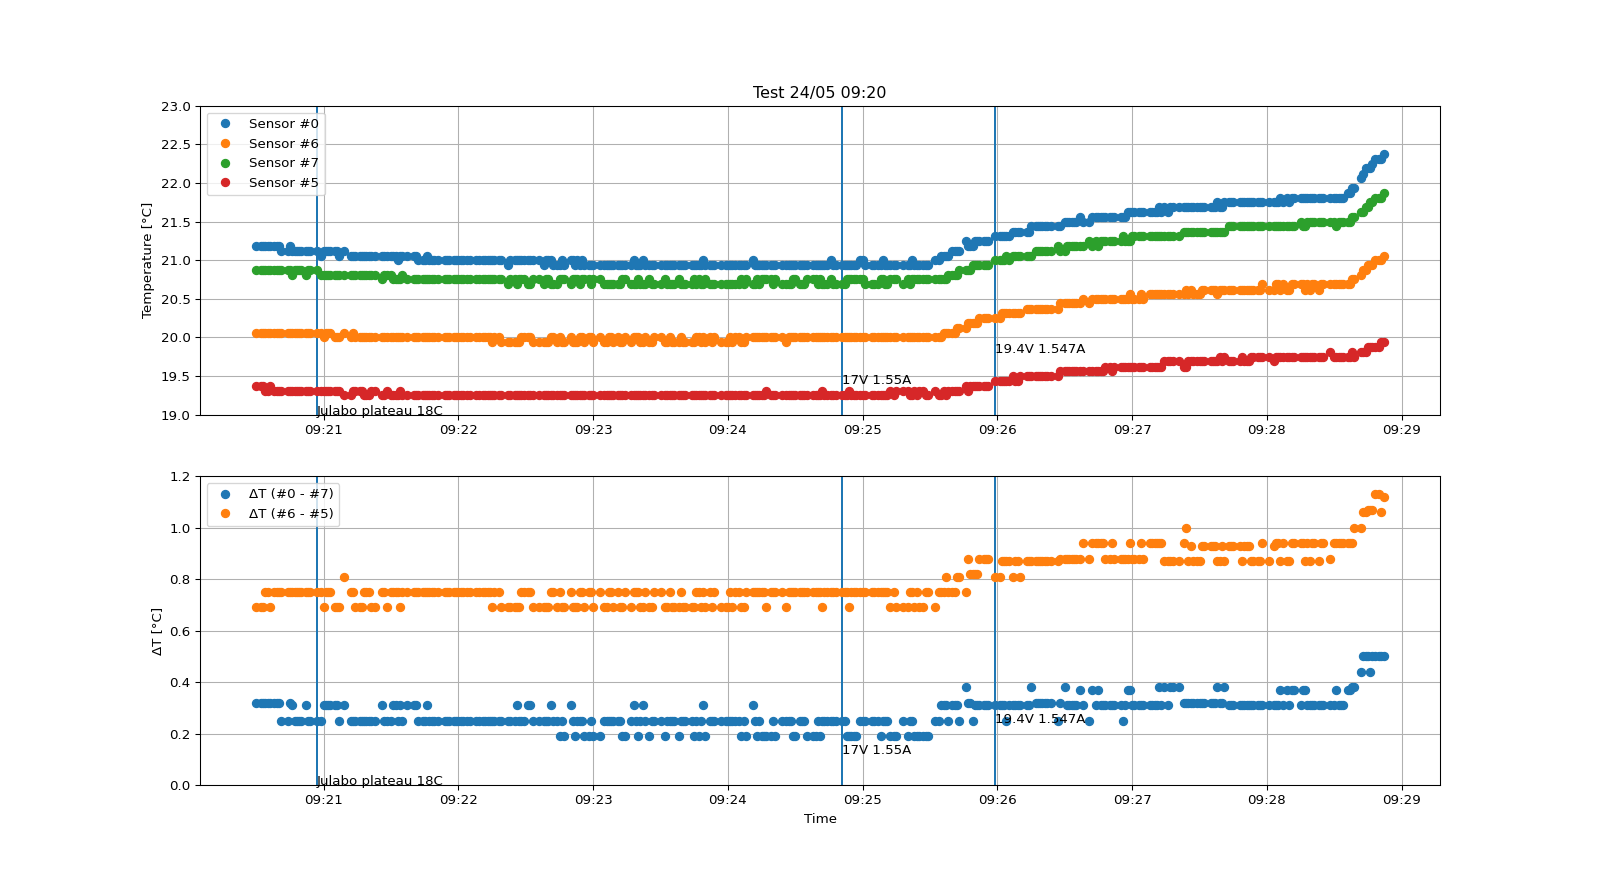
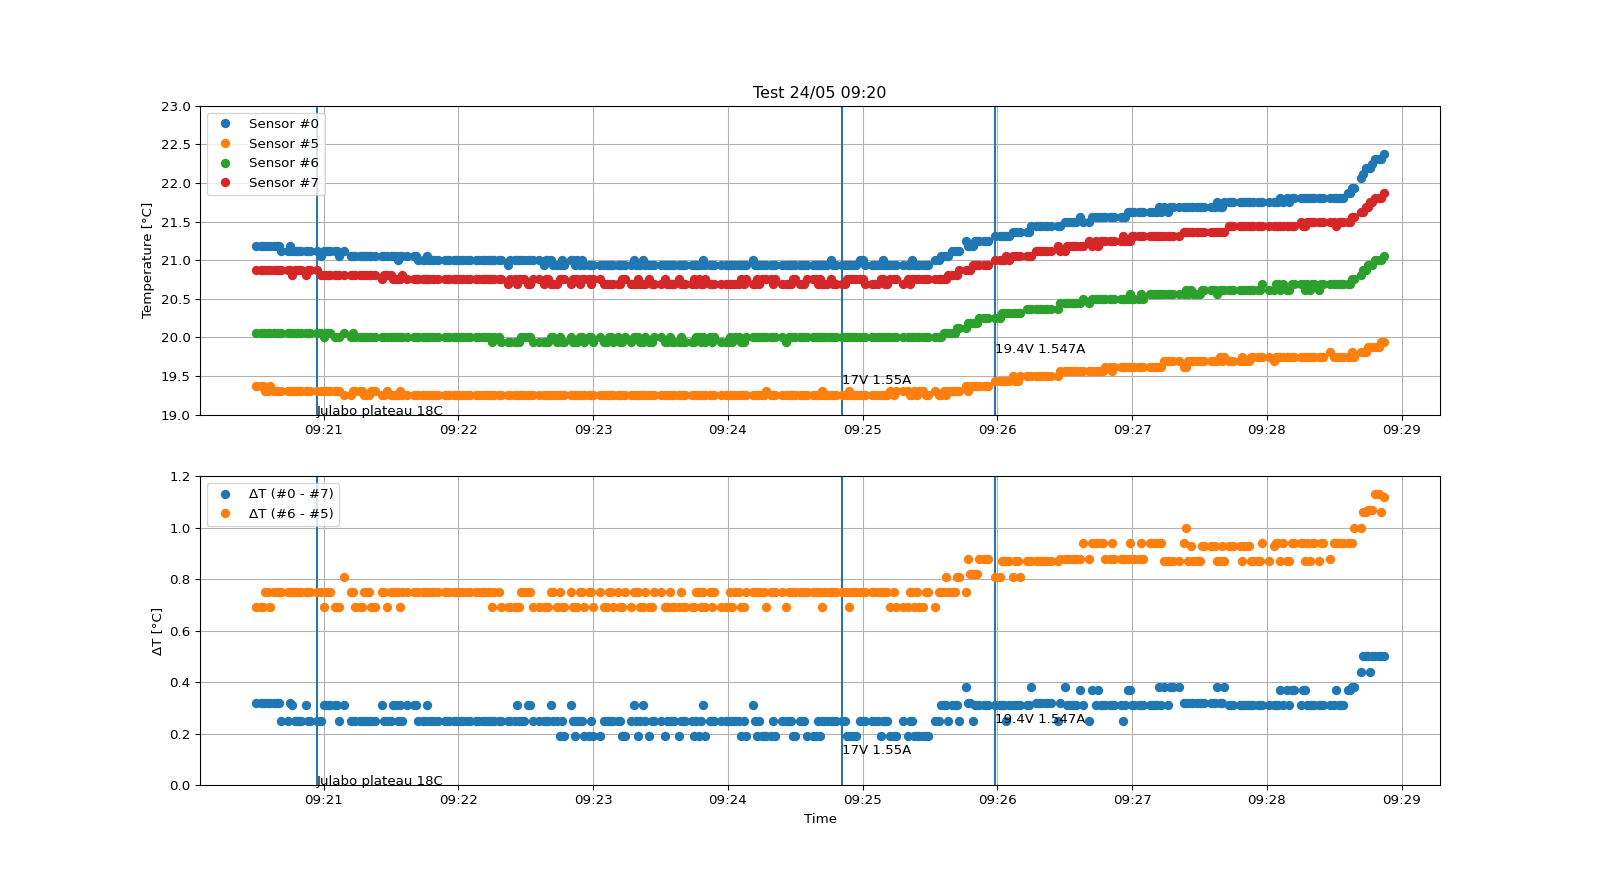
update plots

diff --git a/Analysis/silvio_plots.py b/Analysis/silvio_plots.py
@@ -9,28 +9,168 @@ xformatter = mdates.DateFormatter('%H:%M')
 os.system("mkdir -p plots")
 
 sensor_config = {
-    '../Data/tklog_1619104693.txt': ([(7,3),],"colla blu, sensori avvitati"), #(0,1),(2,4),(5,6) 
-    '../Data/tklog_1619105936.txt': ([(7,3),],"colla blu, sensori avvitati"), #(0,1),(2,4),(5,6)
-    '../Data/tklog_1619106339.txt': ([(7,3),],"colla blu, sensori avvitati"), #(0,1),(2,4),(5,6)
-    '../Data/tklog_1619107077.txt': ([(7,3),(0,1),(2,4),(5,6)],"raffreddamento"), #(0,1),(2,4),(5,6)
-    '../Data/tklog_1619107186.txt': ([(5,2),],"panino secco, sensori avvitati"), #(0,1),(3,4),(6,7)
-    '../Data/tklog_1619107964.txt': ([(5,2),],"panino secco, sensori avvitati"), #(0,1),(3,4),(6,7)
-    '../Data/tklog_1619108587.txt': ([(5,2),],"panino secco, sensori avvitati"), #(0,1),(3,4),(6,7)
-    '../Data/tklog_1619109439.txt': ([(5,2),],"raffreddamento"), #(0,1),(3,4),(6,7)
+#### primi test (Feb 5)
+#    '../Data/tklog_1612542074.txt': ([(0,1),(2,3),(4,5),(6,7),],""),
+#    '../Data/tklog_1612545297.txt': ([(0,1),(2,3),(4,5),(6,7),],""),
 
-#    '../Data/tklog_1621846908.txt': ([(0,7)],""),
-#    '../Data/tklog_1621847007.txt': ([(0,7)],""),
-#    '../Data/tklog_1621848040.txt': ([(0,7)],""),
-#    '../Data/tklog_1621848543.txt': ([(0,7)],""),
-#    '../Data/tklog_1621848738.txt': ([(0,7)],""),
-#    '../Data/tklog_1621849015.txt': ([(0,7)],""),
-#    '../Data/tklog_1621849264.txt': ([(0,7)],""),
-#    '../Data/tklog_1621850280.txt': ([(0,7)],""),
-#    '../Data/tklog_1621850596.txt': ([(0,7)],""),
-#    '../Data/tklog_1621851072.txt': ([(0,7)],""),
-#    '../Data/tklog_1621875533.txt': ([(0,7)],""),
-#    '../Data/tklog_1621932290.txt': ([(0,7)],""),
-#    '../Data/tklog_1621938103.txt': ([(0,7),(1,3)],""),
+#### primi test (Feb 8)
+#    '../Data/tklog_1612777420.txt': ([(0,1),(2,3),(4,5),(6,7),],""),
+#    '../Data/tklog_1612780183.txt': ([(0,1),(2,3),(4,5),(6,7),],""),
+#    '../Data/tklog_1612781179.txt': ([(0,1),(2,3),(4,5),(6,7),],""),
+#    '../Data/tklog_1612782690.txt': ([(0,1),(2,3),(4,5),(6,7),],""),
+#    '../Data/tklog_1612783572.txt': ([(0,1),(2,3),(4,5),(6,7),],""),
+#    '../Data/tklog_1612783710.txt': ([(0,1),(2,3),(4,5),(6,7),],""),
+#    '../Data/tklog_1612784403.txt': ([(0,1),(2,3),(4,5),(6,7),],""),
+
+#### primi test (Feb 9)
+#    '../Data/tklog_1612884983.txt': ([(0,1),(2,3),(4,5),(6,7),],""),
+
+#### primi test (Feb 17)
+#    '../Data/tklog_1613571107.txt': ([(0,1),(2,3),(4,5),(6,7),],""),
+#    '../Data/tklog_1613571198.txt': ([(0,1),(2,3),(4,5),(6,7),],""),
+#    '../Data/tklog_1613573229.txt': ([(0,1),(2,3),(4,5),(6,7),],""),
+
+#### primi test (Feb 18)
+#    '../Data/tklog_1613654915.txt': ([(0,1),(2,3),(4,5),(6,7),],""),
+#    '../Data/tklog_1613655383.txt': ([(0,1),(2,3),(4,5),(6,7),],""),
+#    '../Data/tklog_1613656571.txt': ([(0,1),(2,3),(4,5),(6,7),],""),
+#    '../Data/tklog_1613656843.txt': ([(0,1),(2,3),(4,5),(6,7),],""),
+
+#### primi test (Feb 19)
+#    '../Data/tklog_1613744620.txt': ([(0,1),(2,3),(4,5),(6,7),],""),
+#    '../Data/tklog_1613749472.txt': ([(0,1),(2,3),(4,5),(6,7),],""),
+
+#### primi test (Feb 22)
+#    '../Data/tklog_1614008551.txt': ([(0,1),(2,3),(4,5),(6,7),],""),
+#    '../Data/tklog_1614008861.txt': ([(0,1),(2,3),(4,5),(6,7),],""),
+#    '../Data/tklog_1614009145.txt': ([(0,1),(2,3),(4,5),(6,7),],""),
+#    '../Data/tklog_1614009300.txt': ([(0,1),(2,3),(4,5),(6,7),],""),
+#    '../Data/tklog_1614009674.txt': ([(0,1),(2,3),(4,5),(6,7),],""),
+#    '../Data/tklog_1614009880.txt': ([(0,1),(2,3),(4,5),(6,7),],""),
+#    '../Data/tklog_1614010458.txt': ([(0,1),(2,3),(4,5),(6,7),],""),
+#    '../Data/tklog_1614010548.txt': ([(0,1),(2,3),(4,5),(6,7),],""),
+#    '../Data/tklog_1614010755.txt': ([(0,1),(2,3),(4,5),(6,7),],""),
+#    '../Data/tklog_1614010943.txt': ([(0,1),(2,3),(4,5),(6,7),],""),
+#    '../Data/tklog_1614011016.txt': ([(0,1),(2,3),(4,5),(6,7),],""),
+#    '../Data/tklog_1614011084.txt': ([(0,1),(2,3),(4,5),(6,7),],""),
+#    '../Data/tklog_1614012434.txt': ([(0,1),(2,3),(4,5),(6,7),],""),
+#    '../Data/tklog_1614013287.txt': ([(0,1),(2,3),(4,5),(6,7),],""),
+#    '../Data/tklog_1614013399.txt': ([(0,1),(2,3),(4,5),(6,7),],""),
+#    '../Data/tklog_1614013442.txt': ([(0,1),(2,3),(4,5),(6,7),],""),
+#    '../Data/tklog_1614013606.txt': ([(0,1),(2,3),(4,5),(6,7),],""),
+#    '../Data/tklog_1614013732.txt': ([(0,1),(2,3),(4,5),(6,7),],""),
+#    '../Data/tklog_1614013890.txt': ([(0,1),(2,3),(4,5),(6,7),],""),
+#    '../Data/tklog_1614014045.txt': ([(0,1),(2,3),(4,5),(6,7),],""),
+#    '../Data/tklog_1614014532.txt': ([(0,1),(2,3),(4,5),(6,7),],""),
+#    '../Data/tklog_1614014738.txt': ([(0,1),(2,3),(4,5),(6,7),],""),
+#    '../Data/tklog_1614014960.txt': ([(0,1),(2,3),(4,5),(6,7),],""),
+#    '../Data/tklog_1614015096.txt': ([(0,1),(2,3),(4,5),(6,7),],""),
+#    '../Data/tklog_1614015260.txt': ([(0,1),(2,3),(4,5),(6,7),],""),
+#    '../Data/tklog_1614016013.txt': ([(0,1),(2,3),(4,5),(6,7),],""),
+#    '../Data/tklog_1614017781.txt': ([(0,1),(2,3),(4,5),(6,7),],""),
+
+#### primi test (Feb 24)
+#    '../Data/tklog_1614172794.txt': ([(0,1),(2,3),(4,5),(6,7),],""),
+
+#### primi test (Mar 10)
+#    '../Data/tklog_1615374687.txt': ([(0,1),(2,3),(4,5),(6,7),],""),
+#    '../Data/tklog_1615374753.txt': ([(0,1),(2,3),(4,5),(6,7),],""),
+#    '../Data/tklog_1615374827.txt': ([(0,1),(2,3),(4,5),(6,7),],""),
+
+#### primi test (Mar 23)
+#    '../Data/tklog_1616518108.txt': ([(0,1),(2,3),(4,5),(6,7),],""),
+#    '../Data/tklog_1616518155.txt': ([(0,1),(2,3),(4,5),(6,7),],""),
+#    '../Data/tklog_1616518205.txt': ([(0,1),(2,3),(4,5),(6,7),],""),
+
+#### primi test (Mar 25)
+#    '../Data/tklog_1616674114.txt': ([(0,1),(2,3),(4,5),(6,7),],""),
+#    '../Data/tklog_1616674188.txt': ([(0,1),(2,3),(4,5),(6,7),],""),
+#    '../Data/tklog_1616674304.txt': ([(0,1),(2,3),(4,5),(6,7),],""),
+
+#### primi test (Mar 26)
+#    '../Data/tklog_1616752352.txt': ([(0,1),(2,3),(4,5),(6,7),],""),
+#    '../Data/tklog_1616752647.txt': ([(0,1),(2,3),(4,5),(6,7),],""),
+#    '../Data/tklog_1616753605.txt': ([(0,1),(2,3),(4,5),(6,7),],""),
+#    '../Data/tklog_1616754630.txt': ([(0,1),(2,3),(4,5),(6,7),],""),
+#    '../Data/tklog_1616757007.txt': ([(0,1),(2,3),(4,5),(6,7),],""),
+#    '../Data/tklog_1616757831.txt': ([(0,1),(2,3),(4,5),(6,7),],""),
+
+#### primi test (Apr 19)
+#    '../Data/tklog_1618844856.txt': ([(0,1),(2,3),(4,5),(6,7),],""),
+#    '../Data/tklog_1618845418.txt': ([(0,1),(2,3),(4,5),(6,7),],""),
+
+#### primi test (Apr 21)
+#    '../Data/tklog_1618996352.txt': ([(0,1),(2,3),(4,5),(6,7),],""),
+#    
+#### primi test con i sensori avvitati sul modulo (Apr 22)
+#    '../Data/tklog_1619104693.txt': ([(7,3),],"colla blu, sensori avvitati"), #(0,1),(2,4),(5,6) 
+#    '../Data/tklog_1619105936.txt': ([(7,3),],"colla blu, sensori avvitati"), #(0,1),(2,4),(5,6)
+#    '../Data/tklog_1619106339.txt': ([(7,3),],"colla blu, sensori avvitati"), #(0,1),(2,4),(5,6)
+#    '../Data/tklog_1619107077.txt': ([(7,3),(0,1),(2,4),(5,6)],"raffreddamento"), #(0,1),(2,4),(5,6)
+#    '../Data/tklog_1619107186.txt': ([(5,2),],"panino secco, sensori avvitati"), #(0,1),(3,4),(6,7)
+#    '../Data/tklog_1619107964.txt': ([(5,2),],"panino secco, sensori avvitati"), #(0,1),(3,4),(6,7)
+#    '../Data/tklog_1619108587.txt': ([(5,2),],"panino secco, sensori avvitati"), #(0,1),(3,4),(6,7)
+#    '../Data/tklog_1619109439.txt': ([(5,2),],"raffreddamento"), #(0,1),(3,4),(6,7)
+
+#### primi test con il julabo (Apr 23) - inutile, piastre scaccate a causa della vite ###
+#    '../Data/tklog_1619166827.txt': ([(5,2),(3,4),(1,6),(0,7),],"test inutile (piastre distaccate a causa della vite)"),
+#    '../Data/tklog_1619166924.txt': ([(5,2),(3,4),(1,6),(0,7),],"test inutile (piastre distaccate a causa della vite)"),
+#    '../Data/tklog_1619167683.txt': ([(5,2),(3,4),(1,6),(0,7),],"test inutile (piastre distaccate a causa della vite)"),
+#    '../Data/tklog_1619168877.txt': ([(5,2),(3,4),(1,6),(0,7),],"test inutile (piastre distaccate a causa della vite)"),
+#    '../Data/tklog_1619169158.txt': ([(5,2),(3,4),(1,6),(0,7),],"test inutile (piastre distaccate a causa della vite)"),
+#    '../Data/tklog_1619170382.txt': ([(5,2),(3,4),(1,6),(0,7),],"test inutile (piastre distaccate a causa della vite)"),
+#    '../Data/tklog_1619171337.txt': ([(5,2),(3,4),(1,6),(0,7),],"test inutile (piastre distaccate a causa della vite)"),
+#    '../Data/tklog_1619172110.txt': ([(5,2),(3,4),(1,6),(0,7),],"test inutile (piastre distaccate a causa della vite)"),
+#    '../Data/tklog_1619175021.txt': ([(5,2),(3,4),(1,6),(0,7),],"test inutile (piastre distaccate a causa della vite)"),
+#    '../Data/tklog_1619175259.txt': ([(5,2),(3,4),(1,6),(0,7),],"test inutile (piastre distaccate a causa della vite)"),
+
+#### test con il julabo (May 7) ###
+#    '../Data/tklog_1620373673.txt': ([(2,0),(4,6),(3,5),(1,7),],"niente"),
+#    '../Data/tklog_1620373781.txt': ([(2,0),(4,6),(3,5),(1,7),],"niente"),
+#    '../Data/tklog_1620373922.txt': ([(2,0),(4,6),(3,5),(1,7),],"julabo"),
+
+#### test con il julabo (May 10) ###
+#    '../Data/tklog_1620634689.txt': ([(2,0),(4,6),(3,5),(1,7),],"julabo"),
+
+### test con il julabo (May 19) ###
+#    '../Data/tklog_1621438259.txt': ([(2,0),(2,1)],"niente"),
+#    '../Data/tklog_1621439089.txt': ([(2,0),(2,1)],"niente"),
+#    '../Data/tklog_1621439794.txt': ([(2,0),(2,1)],"niente"),
+#    '../Data/tklog_1621440013.txt': ([(2,0),(2,1)],"work in progress"),
+    '../Data/tklog_1621440159.txt': ([(2,0),(2,1)],""),
+    '../Data/tklog_1621442300.txt': ([(2,0),(2,1)],""),
+
+### test con il julabo (May 21) ###
+    '../Data/tklog_1621592934.txt': ([(5,2),(3,4),],"niente"),
+    '../Data/tklog_1621597071.txt': ([(5,2),(3,4),],""),
+    '../Data/tklog_1621608807.txt': ([(5,2),(3,4),],""),
+    '../Data/tklog_1621610316.txt': ([(5,2),(3,4),],""),
+    '../Data/tklog_1621610372.txt': ([(5,2),(3,4),],""),
+    '../Data/tklog_1621611018.txt': ([(5,2),(3,4),],""),
+    '../Data/tklog_1621614135.txt': ([(5,2),(3,4),],""),
+    '../Data/tklog_1621614450.txt': ([(5,2),(3,4),],""),
+    '../Data/tklog_1621616484.txt': ([(5,2),(3,4),],""),
+    '../Data/tklog_1621617011.txt': ([(5,2),(3,4),],""),
+    '../Data/tklog_1621617305.txt': ([(5,2),(3,4),],""),
+    '../Data/tklog_1621617551.txt': ([(5,2),(3,4),],""),
+    '../Data/tklog_1621617785.txt': ([(5,2),(3,4),],""),
+
+## test con il julabo (May 24) ###
+    '../Data/tklog_1621846908.txt': ([(0,7),(6,5)],"niente"),
+    '../Data/tklog_1621847007.txt': ([(0,7),(6,5)],""),
+    '../Data/tklog_1621848040.txt': ([(0,7),(6,5)],""),
+    '../Data/tklog_1621848543.txt': ([(0,7),(6,5)],""),
+    '../Data/tklog_1621848738.txt': ([(0,7),(6,5)],""),
+    '../Data/tklog_1621849015.txt': ([(0,7),(6,5)],"raffreddamento"),
+    '../Data/tklog_1621849264.txt': ([(0,7),(6,5)],"niente"),
+    '../Data/tklog_1621850280.txt': ([(0,7),(6,5)],"niente"),
+    '../Data/tklog_1621850596.txt': ([(0,7),(6,5)],""),
+    '../Data/tklog_1621851072.txt': ([(0,7),(6,5)],""),
+    '../Data/tklog_1621875533.txt': ([(0,7),(6,5)],""),
+
+## test con il julabo (May 25) ###
+    '../Data/tklog_1621932290.txt': ([(0,7),(6,5)],""),
+    '../Data/tklog_1621938103.txt': ([(0,7),(6,5),(1,3)],""),
 }
 
 for inputFile in sensor_config:
@@ -39,11 +179,12 @@ for inputFile in sensor_config:
     #sensors_up = 1,2
     #sensors_down = 3,4
     sensors = [i[0] for i in sensor_pairs] + [i[1] for i in sensor_pairs]
+    sensors = set(sensors)
     
     inputFileNew = inputFile.replace("tklog_","data_")
     inputFileLog = inputFile.replace("tklog_","log_")
-    os.system("cat %s | grep -v Log > %s" %(inputFile,inputFileNew))
-    os.system("cat %s | grep Log > %s" %(inputFile,inputFileLog))
+    os.system("cat %s | grep -a -v Log > %s" %(inputFile,inputFileNew))
+    os.system("cat %s | grep -a Log > %s" %(inputFile,inputFileLog))
     my_data = genfromtxt(inputFileNew, delimiter=' ')
     mystates = {"Off":0, "Initialized":1, "Ready":2,"HeatingOn":3, "HeatingOff":4 ,"DumpResults":5}
     my_curated_data = my_data[:,[0,4,8,9,10,11,12,13,14,15]]
@@ -57,7 +198,7 @@ for inputFile in sensor_config:
     #    1621851072: "AAA",
     }
 
-    logFile = open(inputFileLog)
+    logFile = open(inputFileLog,'r', encoding='ISO-8859-1')
     for l in logFile.readlines():
         timestamp_moments[datetime.datetime.utcfromtimestamp(int(l.split(" Log ")[0]))] = l.split(" Log ")[1].replace("\n","") #,timezone('Europe/Amsterdam')
 
@@ -90,7 +231,7 @@ for inputFile in sensor_config:
     delta = min_
 
     for i in timestamp_moments:
-        ax[0].vlines(i,-10,100)
+        ax[0].vlines(i,-1000,1000)
         ax[0].text(i,delta,timestamp_moments[i])
         delta = delta+(max_-min_)/10
         if (delta>max_):
